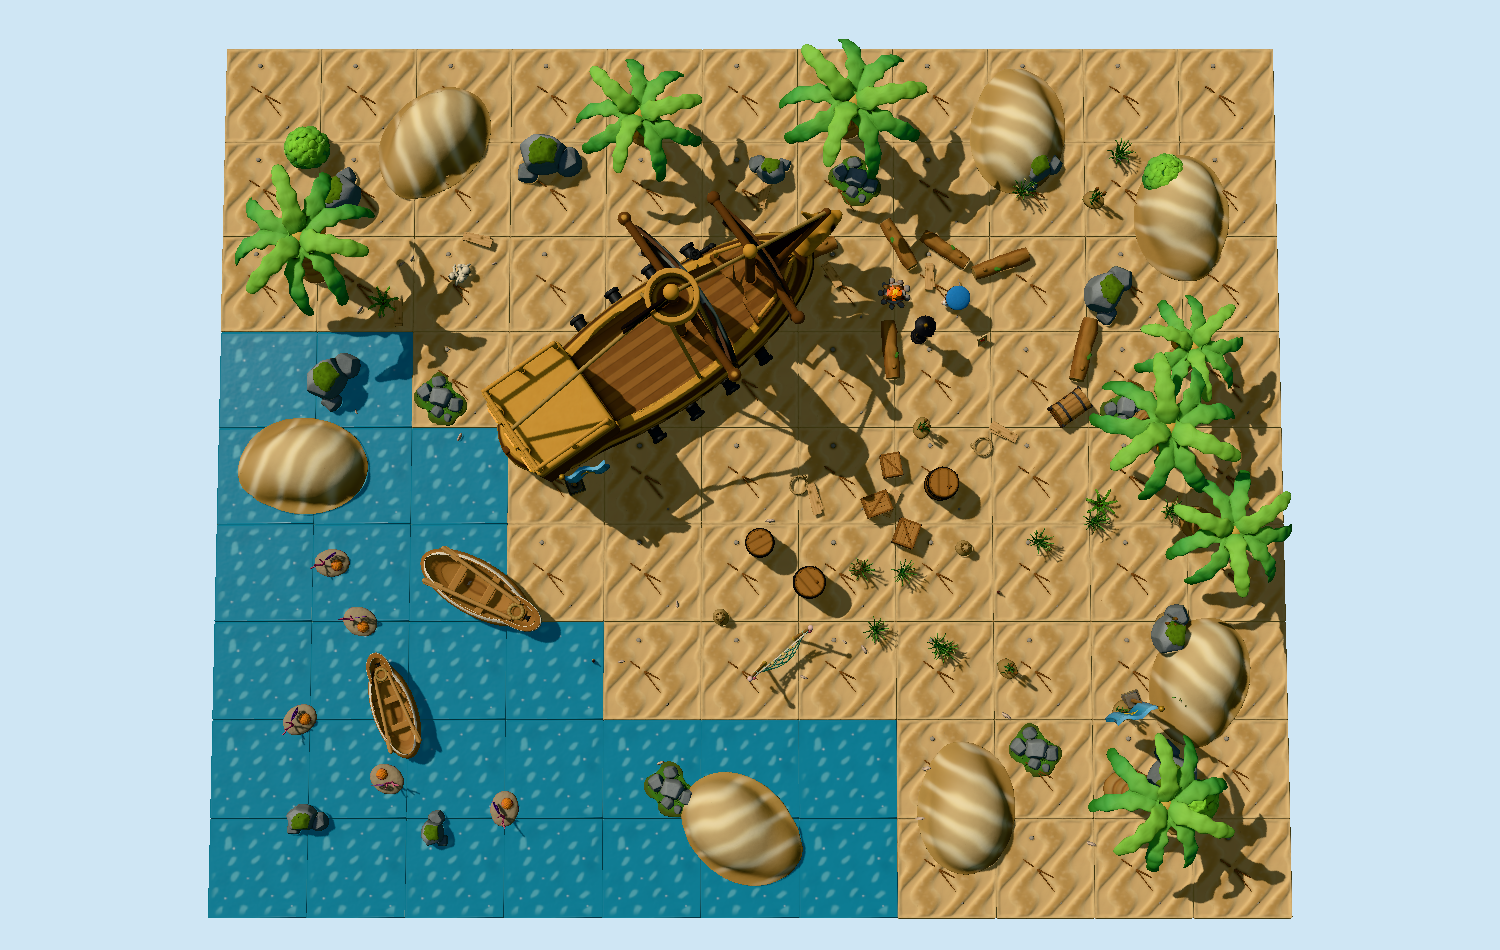
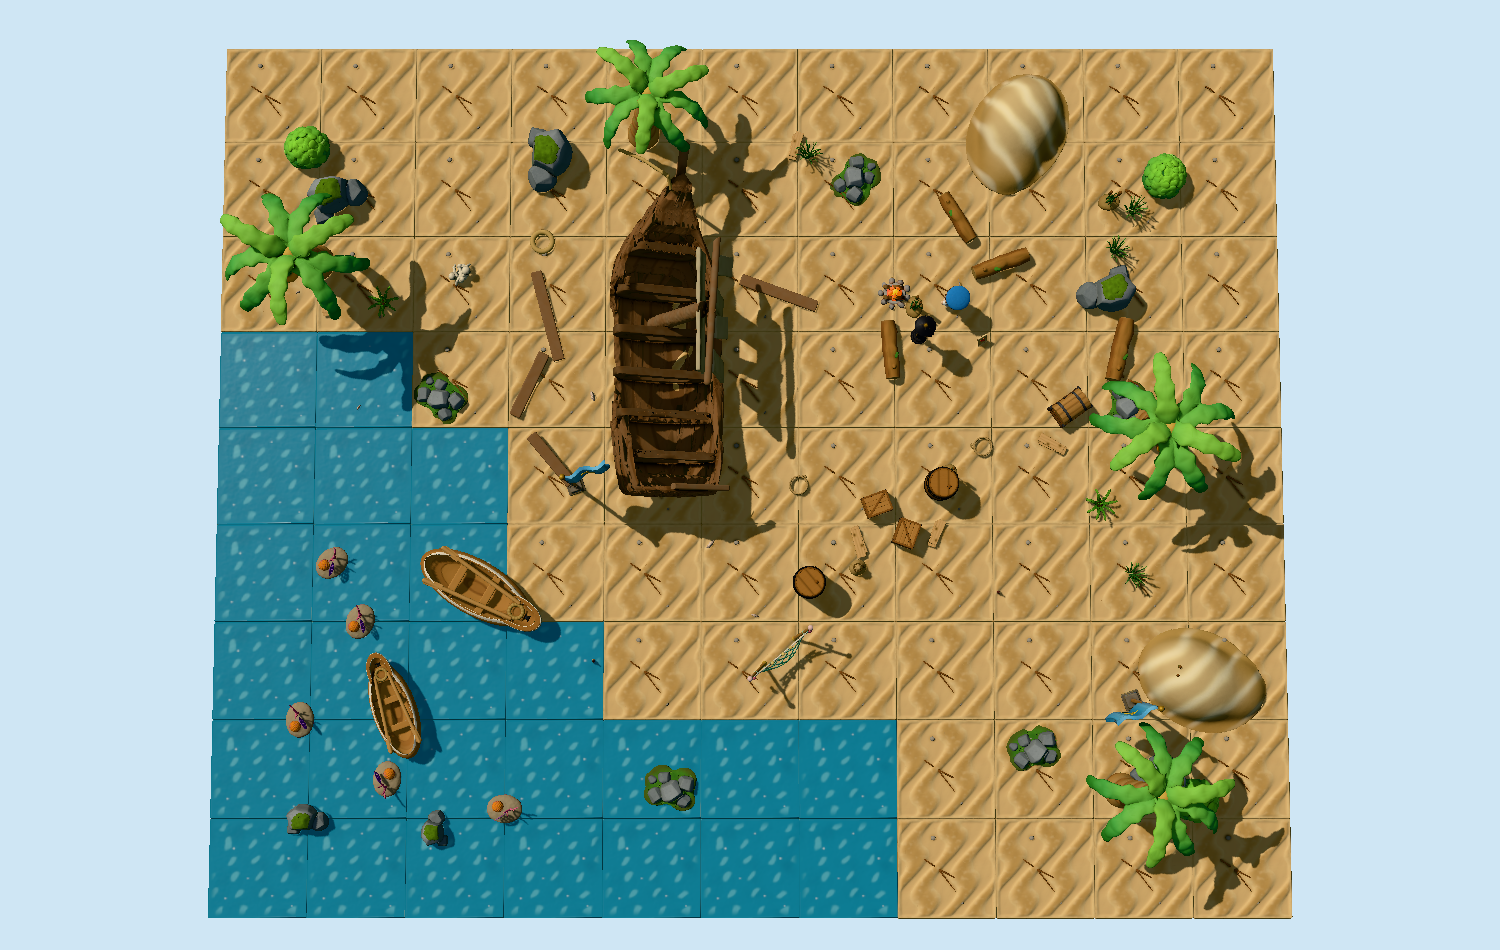
feat(maps): shipwreck map at 7.0 with the new hull; coral-reef-cluster piece

diff --git a/scenes/maps/shipwreck.ts b/scenes/maps/shipwreck.ts
@@ -102,19 +102,15 @@ export function places(): Place[] {
   { asset: 'desert-ground', at: [6, 0, 8] },
   { asset: 'desert-ground', at: [8, 0, 8] },
   { asset: 'desert-ground', at: [10, 0, 8] },
-  { asset: 'pirate-ship', at: [-1.8, -0.45, -2.6], yaw: 125, scale: 1 },
+  { asset: 'shipwreck-hull', at: [-1.8, 0, -2.6], yaw: 180, scale: 1.2 },
   { asset: 'rowboat', at: [-5.6, -0.12, 2.3], yaw: 60 },
   { asset: 'rowboat', at: [-7.2, -0.02, 4.8], yaw: 200, scale: 0.8 },
   { asset: 'chest', at: [6.6, 0, -1.4], yaw: 215 },
   { asset: 'crate', at: [2.6, 0, 0.6], yaw: 20 },
   { asset: 'crate', at: [3.2, 0, 1.2], yaw: 70 },
-  { asset: 'crate', at: [2.9, 0, -0.2], yaw: 100, scale: 0.9 },
   { asset: 'barrel', at: [3.9, 0, 0.2] },
   { asset: 'barrel', at: [1.2, 0, 2.2], yaw: 40 },
-  { asset: 'barrel', at: [0.2, 0, 1.4], yaw: 120, scale: 0.9 },
   { asset: 'sack', at: [2.2, 0, 1.9], yaw: 30 },
-  { asset: 'sack', at: [4.4, 0, 1.5], yaw: 160 },
-  { asset: 'sack', at: [-0.6, 0, 2.9], yaw: 300 },
   { asset: 'rope-coil', at: [1, 0, 0.2], yaw: 80 },
   { asset: 'rope-coil', at: [4.8, 0, -0.6], yaw: 200 },
   { asset: 'fishing-net', at: [0.6, 0, 3.6], yaw: 40 },
@@ -126,94 +122,49 @@ export function places(): Place[] {
   { asset: 'log', at: [5.2, 0, -4.4], yaw: 20 },
   { asset: 'treasure-map', at: [4.8, 0, -2.8], yaw: 30, scale: 0.8 },
   { asset: 'bone-pile', at: [-6, 0, -4.2], yaw: 60 },
-  { asset: 'log', at: [6.89, 0, -2.6], yaw: 76, scale: 1.091748264754074 },
-  { asset: 'plank', at: [-7.3, 0, -3.39], yaw: 272, scale: 1.0171401086343175 },
-  { asset: 'plank', at: [0.29, 0, -5.87], yaw: 255, scale: 1.0792182754162785 },
-  { asset: 'plank', at: [5.23, 0, -0.89], yaw: 332, scale: 1.122963594609389 },
-  { asset: 'plank', at: [2.91, 0, 0.57], yaw: 248, scale: 1.0575016941211661 },
-  { asset: 'log', at: [3.09, 0, -4.81], yaw: 301, scale: 0.9329006383814387 },
-  { asset: 'plank', at: [1.33, 0, 0.49], yaw: 106, scale: 1.1749046794953313 },
-  { asset: 'log', at: [1.22, 0, -4.63], yaw: 202, scale: 1.0035204722562434 },
-  { asset: 'plank', at: [1.71, 0, -4.18], yaw: 124, scale: 1.0657684143007586 },
-  { asset: 'log', at: [4.04, 0, -4.7], yaw: 146, scale: 0.9134376023492952 },
-  { asset: 'plank', at: [-5.66, 0, -4.92], yaw: 165, scale: 1.1452046202240533 },
-  { asset: 'plank', at: [-6.57, 0, -6.33], yaw: 182, scale: 1.0755980144606894 },
-  { asset: 'plank', at: [3.73, 0, -4.14], yaw: 90, scale: 1.0347438707178198 },
-  { asset: 'plank', at: [1.41, 0, -4.76], yaw: 28, scale: 0.9627215700981774 },
-  { asset: 'boulder', at: [7.4, 0, -3.8], yaw: 55, scale: 1 },
-  { asset: 'boulder', at: [6, 0, -6.4], yaw: 28, scale: 0.8 },
-  { asset: 'boulder', at: [-4.2, 0, -6.6], yaw: 359, scale: 1.1 },
-  { asset: 'boulder', at: [8.6, 0, 3.2], yaw: 79, scale: 0.9 },
-  { asset: 'boulder', at: [8.4, 0, 6.2], yaw: 228, scale: 1.2 },
-  { asset: 'boulder', at: [-8.6, 0, -2], yaw: 52, scale: 1 },
-  { asset: 'boulder', at: [0.4, 0, -6.4], yaw: 165, scale: 0.7 },
-  { asset: 'boulder', at: [-8.6, 0, -5.8], yaw: 213, scale: 1 },
-  { asset: 'rock-cluster', at: [7.8, 0, -1.4], yaw: 50 },
-  { asset: 'rock-cluster', at: [5.8, 0, 5.6], yaw: 332 },
-  { asset: 'rock-cluster', at: [-1.6, 0, 6.4], yaw: 318 },
-  { asset: 'rock-cluster', at: [-6.4, 0, -1.6], yaw: 321 },
-  { asset: 'rock-cluster', at: [2.2, 0, -6.2], yaw: 319 },
+  { asset: 'log', at: [7.64, 0, -2.6], yaw: 76, scale: 1.091748264754074 },
+  { asset: 'plank', at: [-8.79, 0, -3.6], yaw: 272, scale: 1.0171401086343175 },
+  { asset: 'plank', at: [0.95, 0, -6.9], yaw: 255, scale: 1.0792182754162785 },
+  { asset: 'plank', at: [6.23, 0, -0.64], yaw: 332, scale: 1.122963594609389 },
+  { asset: 'plank', at: [3.83, 0, 1.19], yaw: 248, scale: 1.0575016941211661 },
+  { asset: 'log', at: [4.31, 0, -5.37], yaw: 301, scale: 0.9329006383814387 },
+  { asset: 'plank', at: [2.23, 0, 1.37], yaw: 106, scale: 1.1749046794953313 },
+  { asset: 'boulder', at: [7.4, 0, -3.8], yaw: 201, scale: 1 },
+  { asset: 'boulder', at: [-4.2, 0, -6.6], yaw: 263, scale: 1.1 },
+  { asset: 'boulder', at: [8.4, 0, 6.2], yaw: 316, scale: 1 },
+  { asset: 'boulder', at: [-8.6, 0, -5.8], yaw: 21, scale: 1 },
+  { asset: 'rock-cluster', at: [7.8, 0, -1.4], yaw: 98 },
+  { asset: 'rock-cluster', at: [5.8, 0, 5.6], yaw: 202 },
+  { asset: 'rock-cluster', at: [-1.6, 0, 6.4], yaw: 183 },
+  { asset: 'rock-cluster', at: [-6.4, 0, -1.6], yaw: 152 },
+  { asset: 'rock-cluster', at: [2.2, 0, -6.2], yaw: 69 },
   { asset: 'palm-tree', at: [8.2, 0, -1], yaw: 327, scale: 0.9 },
-  { asset: 'palm-tree', at: [8.9, 0, -2.4], yaw: 274, scale: 0.7 },
-  { asset: 'palm-tree', at: [-9, 0, -4.4], yaw: 99, scale: 0.9 },
-  { asset: 'palm-tree', at: [-2.2, 0, -7.2], yaw: 4, scale: 0.8 },
-  { asset: 'palm-tree', at: [7.6, 0, 6.4], yaw: 89, scale: 0.85 },
-  { asset: 'palm-tree', at: [9.2, 0, 1], yaw: 27, scale: 0.8 },
-  { asset: 'palm-tree', at: [2, 0, -7.4], yaw: 1, scale: 0.9 },
-  { asset: 'sand-dune', at: [-6.6, 0, -7], yaw: 222 },
-  { asset: 'sand-dune', at: [5.6, 0, -7.2], yaw: 83 },
-  { asset: 'sand-dune', at: [9, 0, -5.4], yaw: 267 },
-  { asset: 'sand-dune', at: [-9.2, 0, -0.2], yaw: 176 },
-  { asset: 'sand-dune', at: [9.2, 0, 4.2], yaw: 248 },
-  { asset: 'sand-dune', at: [4.4, 0, 6.8], yaw: 86 },
-  { asset: 'sand-dune', at: [-0.2, 0, 7.2], yaw: 318 },
-  { asset: 'shell', at: [-5.08, 0, -1.92], yaw: 322, scale: 0.5591863289285387 },
-  { asset: 'shell', at: [-5.32, 0, -4.42], yaw: 203, scale: 0.5261727084993257 },
-  { asset: 'shell', at: [-8.97, 0, -5.92], yaw: 331, scale: 0.5653801351158787 },
-  { asset: 'shell', at: [3.61, 0, 5.97], yaw: 13, scale: 0.941567839794591 },
-  { asset: 'shell', at: [6.94, 0, 7.49], yaw: 344, scale: 0.8824424228549201 },
-  { asset: 'shell', at: [4.37, 0, 5.81], yaw: 143, scale: 0.6173738586331596 },
-  { asset: 'shell', at: [-1.83, -0.03, 5.88], yaw: 201, scale: 0.6757190905863973 },
-  { asset: 'shell', at: [2.33, 0, 3.57], yaw: 121, scale: 0.862599593988899 },
-  { asset: 'shell', at: [-5.77, -0.03, 2.21], yaw: 49, scale: 0.7487224779318657 },
-  { asset: 'shell', at: [1.1, 0, 4.13], yaw: 340, scale: 0.7410360906464216 },
-  { asset: 'shell', at: [-6.01, -0.03, -0.81], yaw: 60, scale: 0.8313060546439635 },
-  { asset: 'shell', at: [0.42, 0, 0.94], yaw: 182, scale: 0.8785732865233782 },
-  { asset: 'shell', at: [-2.64, 0, 3.81], yaw: 9, scale: 0.6494181499115276 },
-  { asset: 'shell', at: [-5.07, -0.03, 2.43], yaw: 155, scale: 0.5376561219048016 },
-  { asset: 'shell', at: [5.24, 0, 4.91], yaw: 330, scale: 0.9550092492508745 },
-  { asset: 'shell', at: [3.47, 0, 6.98], yaw: 9, scale: 0.8809900946826628 },
-  { asset: 'shell', at: [1.94, 0, 3.41], yaw: 323, scale: 0.5185082394250241 },
-  { asset: 'shell', at: [-6.99, 0, -6.38], yaw: 39, scale: 0.5424230825353521 },
-  { asset: 'shell', at: [-7.03, 0, -4.53], yaw: 243, scale: 0.6216295697361368 },
-  { asset: 'shell', at: [-1.49, 0, 2.64], yaw: 279, scale: 0.6984416147221073 },
-  { asset: 'shell', at: [-7.25, 0, -4.41], yaw: 217, scale: 0.5852644159855621 },
-  { asset: 'shell', at: [-8.1, 0, -3.45], yaw: 233, scale: 0.7780532109448934 },
-  { asset: 'shell', at: [-8.16, -0.03, -1.32], yaw: 113, scale: 0.5020826486880344 },
-  { asset: 'coral', at: [-8.6, -0.03, 1.8], yaw: 2, scale: 0.9 },
-  { asset: 'coral', at: [-7.4, -0.03, 6.2], yaw: 149, scale: 0.9 },
-  { asset: 'coral', at: [-9.2, -0.03, 5], yaw: 33, scale: 0.9 },
-  { asset: 'coral', at: [-5, -0.03, 6.8], yaw: 84, scale: 0.9 },
-  { asset: 'coral', at: [-8, -0.03, 3], yaw: 333, scale: 0.9 },
+  { asset: 'palm-tree', at: [-9, 0, -4.4], yaw: 20, scale: 0.9 },
+  { asset: 'palm-tree', at: [-2.2, 0, -7.2], yaw: 132, scale: 0.8 },
+  { asset: 'palm-tree', at: [7.6, 0, 6.4], yaw: 124, scale: 0.85 },
+  { asset: 'sand-dune', at: [5.6, 0, -7.2], yaw: 239 },
+  { asset: 'sand-dune', at: [9.2, 0, 4.2], yaw: 333 },
+  { asset: 'shell', at: [-2.6, 0, -1.16], yaw: 120, scale: 0.7658301316042571 },
+  { asset: 'shell', at: [0.1, 0, 2.87], yaw: 338, scale: 0.6983610469374624 },
+  { asset: 'shell', at: [-3.25, 0, -1.65], yaw: 286, scale: 0.9387788145983493 },
+  { asset: 'shell', at: [-8.11, -0.03, -1.42], yaw: 55, scale: 0.5389419945603898 },
+  { asset: 'shell', at: [-0.82, 0, 1.41], yaw: 50, scale: 0.9609354603853708 },
+  { asset: 'shell', at: [-9.4, 0, -3.83], yaw: 27, scale: 0.5007918379273227 },
+  { asset: 'coral', at: [-8.6, -0.03, 1.8], yaw: 222, scale: 0.9 },
+  { asset: 'coral', at: [-7.4, -0.03, 6.2], yaw: 83, scale: 0.9 },
+  { asset: 'coral', at: [-9.2, -0.03, 5], yaw: 267, scale: 0.9 },
+  { asset: 'coral', at: [-5, -0.03, 6.8], yaw: 176, scale: 0.9 },
+  { asset: 'coral', at: [-8, -0.03, 3], yaw: 248, scale: 0.9 },
   { asset: 'boulder', at: [-9, -0.03, 7], scale: 0.7 },
   { asset: 'boulder', at: [-6.4, -0.03, 7.2], yaw: 90, scale: 0.6 },
-  { asset: 'reeds', at: [5.27, 0, 3.96], yaw: 308 },
-  { asset: 'tall-grass', at: [8.79, 0, 4.51], yaw: 206 },
-  { asset: 'tall-grass', at: [3.14, 0, 1.99], yaw: 318 },
-  { asset: 'reeds', at: [8.69, 0, 7.13], yaw: 29 },
-  { asset: 'tall-grass', at: [3.96, 0, 3.57], yaw: 283 },
-  { asset: 'tall-grass', at: [5.67, 0, -5.94], yaw: 288 },
-  { asset: 'tall-grass', at: [2.57, 0, 3.17], yaw: 159 },
-  { asset: 'tall-grass', at: [7.07, 0, 0.95], yaw: 97 },
-  { asset: 'reeds', at: [3.55, 0, -0.99], yaw: 68 },
-  { asset: 'reeds', at: [7.58, 0, 4.83], yaw: 246 },
-  { asset: 'reeds', at: [7.17, 0, -5.76], yaw: 332 },
-  { asset: 'reeds', at: [8.5, 0, 3], yaw: 42 },
-  { asset: 'tall-grass', at: [5.93, 0, 1.37], yaw: 46 },
-  { asset: 'tall-grass', at: [8.65, 0, 0.72], yaw: 280 },
-  { asset: 'tall-grass', at: [3.85, 0, 3.5], yaw: 36 },
-  { asset: 'tall-grass', at: [2.28, 0, 1.94], yaw: 86 },
-  { asset: 'tall-grass', at: [7.7, 0, -6.71], yaw: 146 },
+  { asset: 'reeds', at: [7.49, 0, -5.72], yaw: 1 },
+  { asset: 'tall-grass', at: [7.85, 0, 2.05], yaw: 8 },
+  { asset: 'tall-grass', at: [7.6, 0, -4.68], yaw: 204 },
+  { asset: 'reeds', at: [3.41, 0, -3.51], yaw: 75 },
+  { asset: 'tall-grass', at: [1.22, 0, -6.71], yaw: 252 },
+  { asset: 'reeds', at: [4.07, 0, -0.03], yaw: 40 },
+  { asset: 'tall-grass', at: [7.96, 0, -5.54], yaw: 321 },
+  { asset: 'reeds', at: [8.63, 0, 3.97], yaw: 89 },
   { asset: 'flag', at: [-3.6, 0, 0.2], yaw: 20 },
   { asset: 'flag', at: [7.8, 0, 4.6], yaw: 200 },
   { asset: 'lantern', at: [3.5, 0, -2.9] },

diff --git a/assets/coral-reef-cluster.ts b/assets/coral-reef-cluster.ts
@@ -1,0 +1,95 @@
+import { defineAsset, noise, profile, rgb, sdf } from '../src/index.js';
+
+/**
+ * Coral reef cluster (nature/underwater): about 1 m wide, 0.8 m tall, on y = 0, on a 0.9 m sand base.
+ * One idea: a candy-bright chibi clump, a tall hot pink staghorn in the middle, ringed by a yellow
+ * brain dome, orange-red tubes, and a violet plate fan. Round, chunky, saturated.
+ * Palette: sand #e8d3a0, pink #ff4f9a (slot 'coral'), yellow #ffd23a, orange-red #ff6a3a, violet #9b5cf0.
+ */
+
+type P3 = [number, number, number];
+const branch = (pts: [number, number, number, number][]) => sdf.chain(pts, 0.03);
+
+export default defineAsset({
+  name: 'coral-reef-cluster',
+  description: 'A bright chibi coral clump: pink staghorn, yellow brain dome, orange tube cluster, and violet plate fan on a sand base.',
+  detail: 0.006,
+  texture: { size: 1024 },
+  variants: { coral: { pink: '#ff4f9a', orange: '#ff8a2a', violet: '#a45cf0' } },
+
+  build(k) {
+    const sand = sdf
+      .cylinder(0.45, 0.07, 0.03)
+      .at(0, 0.035, 0)
+      .scale([1, 1, 0.92])
+      .displace(0.006, (x, y, z) => noise.fbm(x * 8, y * 8, z * 8, 2));
+    k.body('sand', sand.paint('#e8d3a0'), { color: '#e8d3a0', roughness: 0.95, metalness: 0, bump: (x, y, z) => 0.5 * noise.fbm(x * 30, y * 30, z * 30, 2) });
+
+    const bumps = (shape: ReturnType<typeof sdf.sphere>) =>
+      shape.displace(0.006, (x, y, z) => Math.max(0, noise.noise3(x * 55, y * 55, z * 55)));
+
+    // Staghorn: thick trunk with three forks, tall, center-back.
+    const stag = sdf.smoothUnion(
+      0.03,
+      branch([[-0.05, 0.05, -0.05, 0.075], [-0.06, 0.25, -0.06, 0.06], [-0.08, 0.5, -0.07, 0.05], [-0.1, 0.72, -0.06, 0.035]]),
+      branch([[-0.06, 0.25, -0.06, 0.055], [0.06, 0.42, -0.08, 0.045], [0.14, 0.6, -0.07, 0.035], [0.17, 0.74, -0.06, 0.028]]),
+      branch([[-0.08, 0.45, -0.07, 0.045], [-0.2, 0.55, -0.05, 0.04], [-0.27, 0.66, -0.04, 0.03]]),
+      branch([[0.06, 0.42, -0.08, 0.04], [0.02, 0.58, -0.02, 0.032], [0.0, 0.7, 0.0, 0.026]]),
+    );
+    k.body('staghorn', bumps(stag as never).paint(k.tint('coral')), { color: k.tint('coral'), roughness: 0.6, metalness: 0 });
+
+    // Brain dome, front-left.
+    const brain = sdf
+      .sphere(0.19)
+      .scale([1, 0.7, 1])
+      .at(-0.2, 0.12, 0.18);
+    const grooveCol = (x: number, y: number, z: number) =>
+      Math.abs(Math.sin(x * 45 + Math.sin(z * 38) * 1.6 + y * 18)) < 0.35;
+    k.body('brain', brain.paintFn((x, y, z, base) => (grooveCol(x, y, z) ? rgb('#e08a1a') : base)), {
+      color: '#ffd23a',
+      roughness: 0.6,
+      metalness: 0,
+      maxTriangles: 8000,
+      bump: (x, y, z) => 0.6 * noise.fbm(x * 40, y * 40, z * 40, 2),
+    });
+
+    // Tube cluster, front-right: seven open tubes of mixed height.
+    const tubeData: [number, number, number, number][] = [
+      [0.22, 0.2, 0.2, 0.055], [0.33, 0.12, 0.13, 0.05], [0.12, 0.1, 0.28, 0.045],
+      [0.3, 0.1, 0.3, 0.04], [0.4, 0.08, 0.22, 0.035], [0.18, 0.08, 0.1, 0.035], [0.25, 0.05, 0.4, 0.03],
+    ];
+    const tubes = sdf.smoothUnion(
+      0.02,
+      ...tubeData.map(([x, h, z, r]) => {
+        const t = sdf.cylinder(r, h + 0.1, 0.012).at(x, (h + 0.1) / 2 + 0.03, z);
+        return t.subtract(sdf.cylinder(r * 0.55, 0.06).at(x, h + 0.1, z));
+      }),
+    );
+    k.body('tubes', tubes.paint('#ff6a3a'), { color: '#ff6a3a', roughness: 0.6, metalness: 0 });
+
+    // Violet plate fan, back-right, standing edge-on and tilted.
+    const plateShape = profile.polygon(
+      [[0, 0], [-0.2, 0.12], [-0.25, 0.3], [-0.13, 0.43], [0, 0.4], [0.13, 0.44], [0.25, 0.3], [0.2, 0.12]] as [number, number][],
+      { smooth: true },
+    );
+    const plate = sdf.extrude(plateShape, 0.05, 0.02).rotateY(-25).rotateZ(8).at(0.3, 0.06, -0.12);
+    const ribs = sdf.union(
+      ...Array.from({ length: 5 }, (_, i) => sdf.capsule([0.3 + (i - 2) * 0.01, 0.1, -0.1] as P3, [0.3 + (i - 2) * 0.09, 0.4, -0.1] as P3, 0.02)),
+    );
+    void ribs;
+    k.body('plate', plate.paintFn((x, y, z, base) => (Math.sin((x * 1.0 + z * 0.5) * 90) > 0.6 ? rgb('#c590ff') : base)), {
+      color: '#9b5cf0',
+      roughness: 0.6,
+      metalness: 0,
+      maxTriangles: 8000,
+    });
+
+    // Small accent blobs: little pink-yellow knobs on the sand.
+    const knobs = sdf.union(
+      sdf.sphere(0.05).at(-0.38, 0.09, -0.05),
+      sdf.sphere(0.035).at(-0.3, 0.08, -0.2),
+      sdf.sphere(0.04).at(0.02, 0.09, 0.38),
+    );
+    k.body('knobs', knobs.paint('#ff9ac8'), { color: '#ff9ac8', roughness: 0.6, metalness: 0 });
+  },
+});

diff --git a/docs/map-mockups/shipwreck.md b/docs/map-mockups/shipwreck.md
@@ -22,27 +22,27 @@ Notes: missing crab and driftwood pieces; planks and logs stand in for driftwood
 |---|---|
 | desert-ground | 73 |
 | sea-water | 26 |
-| shell | 23 |
-| tall-grass | 11 |
-| plank | 10 |
-| boulder | 10 |
-| palm-tree | 7 |
-| sand-dune | 7 |
-| log | 6 |
-| reeds | 6 |
+| boulder | 6 |
+| shell | 6 |
+| plank | 5 |
 | rock-cluster | 5 |
 | coral | 5 |
-| crate | 3 |
-| barrel | 3 |
-| sack | 3 |
+| log | 4 |
+| palm-tree | 4 |
+| reeds | 4 |
+| tall-grass | 4 |
 | bush | 3 |
 | rowboat | 2 |
+| crate | 2 |
+| barrel | 2 |
 | rope-coil | 2 |
 | bottle | 2 |
+| sand-dune | 2 |
 | flag | 2 |
 | fern | 2 |
-| pirate-ship | 1 |
+| shipwreck-hull | 1 |
 | chest | 1 |
+| sack | 1 |
 | fishing-net | 1 |
 | sailor | 1 |
 | campfire | 1 |
@@ -50,4 +50,4 @@ Notes: missing crab and driftwood pieces; planks and logs stand in for driftwood
 | bone-pile | 1 |
 | lantern | 1 |
 
-Total: 219
+Total: 170
